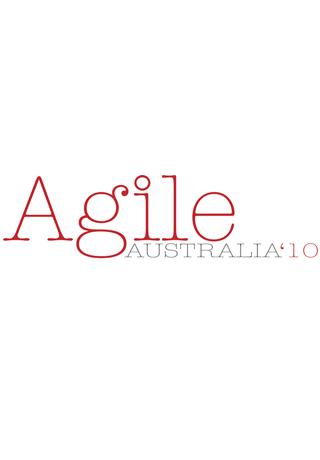
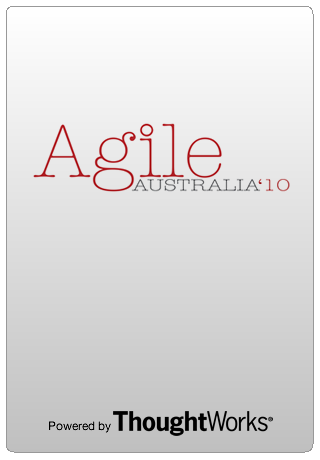
changes to startup screen and speaker pages, changes to menu

diff --git a/index.html b/index.html
@@ -62,8 +62,28 @@
 				<ul class="edgetoedge schedule"></ul>
 			</div>
 		</div>
+       
 	</div>
-
+     <nav id="tabbar">
+            <ul>
+                <li>
+                    <a href="#Wednesday" class="fade icon"><img src="themes/agile2010/img/footer_logo.png" alt="Agile Australia 2010"/></a>
+                </li>
+                <li>
+                    <a href="#about" class="fade icon"><img src="themes/agile2010/img/footer_info.png" alt="More Info"/></a>
+                </li>
+                <li>
+                    <a href="#twitter" class="fade  icon"><img src="themes/agile2010/img/footer_buzz.png" alt="Twitter Feed"/></a>
+                </li>
+                <li>
+                    <a href="#floorplan" class="fade icon"><img src="themes/agile2010/img/footer_rooms.png" alt="Rooms"/></a>
+                </li>
+                <li>
+                    <a href="#map" class="fade icon"><img src="themes/agile2010/img/footer_where.png" alt="Getting There"/></a>
+                </li>
+            </ul>
+        </nav> 
+    
 	<!-- about -->
 	<div id="about" class="content">
 		<p>About Agile 2010</p>
@@ -105,25 +125,9 @@
 		<img src="themes/agile2010/floorplan.jpg"/>
 	</div>
 
-    <nav id="tabbar">
-        <ul>
-            <li>
-                <a href="http://www.agileaustralia.com/" class="logo"><img src="themes/agile2010/img/footer_logo.png" alt="Agile Australia 2010"/></a>
-            </li>
-            <li>
-                <a href="#about" class="flip icon"><img src="themes/agile2010/img/footer_info.png" alt="More Info"/></a>
-            </li>
-            <li>
-                <a href="#twitter" class="flip  icon"><img src="themes/agile2010/img/footer_buzz.png" alt="Twitter Feed"/></a>
-            </li>
-            <li>
-                <a href="#floorplan" class="flip icon"><img src="themes/agile2010/img/footer_rooms.png" alt="Rooms"/></a>
-            </li>
-            <li>
-                <a href="#map" class="flip icon"><img src="themes/agile2010/img/footer_where.png" alt="Getting There"/></a>
-            </li>
-        </ul>
-    </nav>
+
+
+    
 </div>
 
 </body>

diff --git a/themes/agile2010/agile2010.js b/themes/agile2010/agile2010.js
@@ -299,7 +299,7 @@ function ConferenceDOMBuilder(conference) {
 ConferenceDOMBuilder.prototype.buildSpeakerDOM = function(speakerID, speaker) {
     var speakerDiv = $('<div id="' + speakerID + '" class="content"></div>');
     speakerDiv.append($('<div class="toolbar"><h1>' + speaker.name + '</h1><a class="button back" href="#">Back</a></div>'));
-    speakerDiv.append($('<div class="speaker-info scroll"><img src="themes/agile2010/img/speakers/' + speakerID + '.gif" width="80" height="120" class="speaker-photo"/><div class="speaker-title2">' + speaker.title + '</div>' + speaker.description + '</div>'));
+    speakerDiv.append($('<div class="speaker-info description scroll"><img src="themes/agile2010/img/speakers/' + speakerID + '.gif" width="80" height="120" class="speaker-photo"/><div class="speaker-title2">' + speaker.title + '</div>' + speaker.description + '</div>'));
     return speakerDiv;
 };
 
@@ -328,7 +328,7 @@ ConferenceDOMBuilder.prototype.buildSessionDOM = function(sessionID, session) {
     sessionDiv.append(contentDiv);
     contentDiv.append($('div class="topic">' + session.topic + '</div>'));
     contentDiv.append(this.buildSessionSpeakerList(session));
-    contentDiv.append($('<ul><li style="color:#E0E0E0;">I will attend<span class="toggle go-skip"><input type="checkbox" topic="' + sessionID + '" class="attend-slider"/></span></li></ul>'));
+    contentDiv.append($('<ul><li class="attending">Planning to Skip or Go?<span class="toggle go-skip"><input type="checkbox" topic="' + sessionID + '" class="attend-slider"/></span></li></ul>'));
     contentDiv.append($('<div class="description">' + session.description + '</div>'));
     return sessionDiv;
 };

diff --git a/themes/agile2010/theme.css b/themes/agile2010/theme.css
@@ -36,6 +36,14 @@ div#jqt .toolbar > h1 {
     font-weight: bold;
 }
 
+.attending {
+ 
+    font-size: 10pt;
+	vertical-align: -5px;
+	
+
+}
+
 .speaker {
     font-size: 12pt;
 }
@@ -658,6 +666,7 @@ div#jqt.landscape .toolbar > h1 {
     border-width: 1px 0;
     margin: 0;
     padding: 0;
+	background-color:white;
 }
 #jqt ul.edgetoedge li {
     background-color:#E0E0E0;
